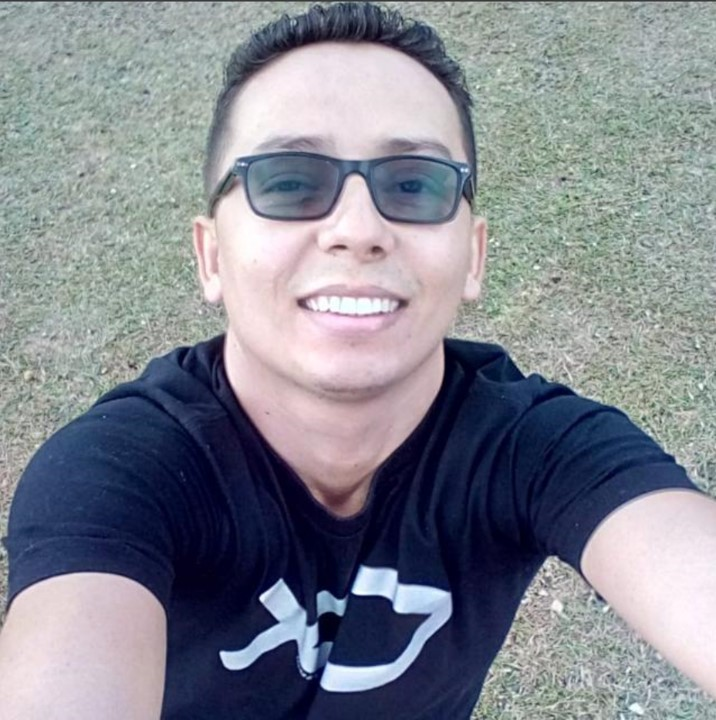
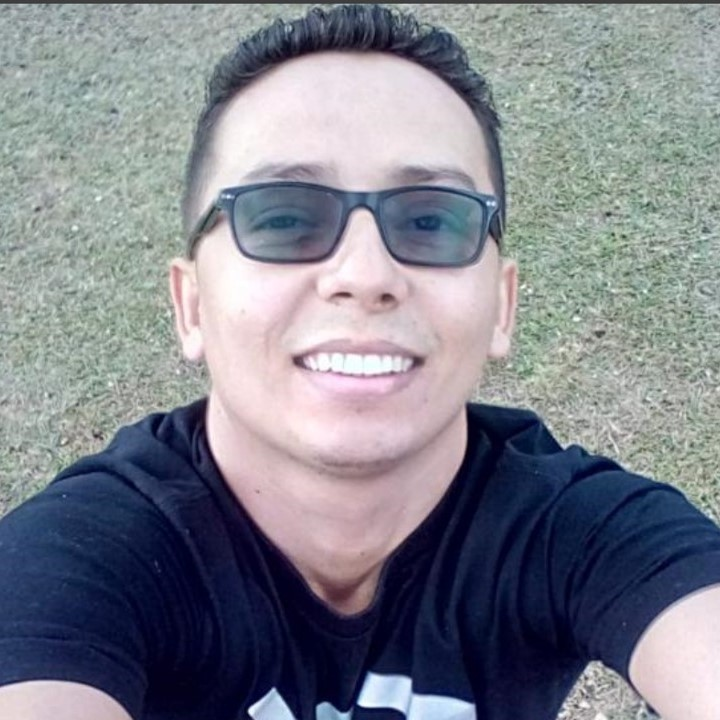
aniversariantes

diff --git a/aniversariantes-data.js b/aniversariantes-data.js
@@ -63,9 +63,9 @@ export const pessoas = [
     {nome: "Margarete do Nascimento Monteiro", data: new Date(2024, 8, 12), dia: 12, mes: 8, ano: 1971, funcao: "SOPI", foto: 'img/anivImg/setembro/marga.png'},
     {nome: "Daniel Faria Filho", data: new Date(2024, 8, 26), dia: 26, mes: 8, ano: 1963, funcao: "Monitor", foto: 'img/anivImg/setembro/dani.png'},
     {nome: "Vinicius Fernando Serain", data: new Date(2024, 8, 27), dia: 27, mes: 8, ano: 1990, funcao: "Pastoral", foto: 'img/anivImg/setembro/vini.png'},
-    {nome: "Joniel Mendes de Araujo", data: new Date(2024, 8, 30), dia: 30, mes: 8, ano: 1989, funcao: "Professor", foto: 'img/anivImg/user.png'},
+    {nome: "Joniel Mendes de Araujo", data: new Date(2024, 8, 30), dia: 30, mes: 8, ano: 1989, funcao: "Professor", foto: 'img/anivImg/setembro/joniel.jpg'},
     
-    {nome: "Larissa Cardoso de Franca Goncalves", data: new Date(2024, 9, 6), dia: 6, mes: 9, ano: 1987, funcao: "Professora", foto: 'img/anivImg/outubro/larissa.jpeg'},
+    {nome: "Larissa Cardoso de Franca Goncalves", data: new Date(2024, 9, 6), dia: 6, mes: 9, ano: 1987, funcao: "Professora", foto: 'img/anivImg/outubro/larissa.jpg'},
     {nome: "Jaqueline Marcia Hoffmeister Senko", data: new Date(2024, 9, 9), dia: 9, mes: 9, ano: 1980, funcao: "Coordenadora", foto: 'img/anivImg/outubro/jaquelinesenko.png'},
     {nome: "Douglas Frohlich Reded", data: new Date(2024, 9, 19), dia: 19, mes: 9, ano: 1992, funcao: "TI", foto: 'img/anivImg/outubro/douglasfrohlich.jpeg'},
     {nome: "Silmara de Lima Grochka", data: new Date(2024, 9, 19), dia: 19, mes: 9, ano: 1993, funcao: "Tutora", foto: 'img/anivImg/outubro/silmara.jpg'},
